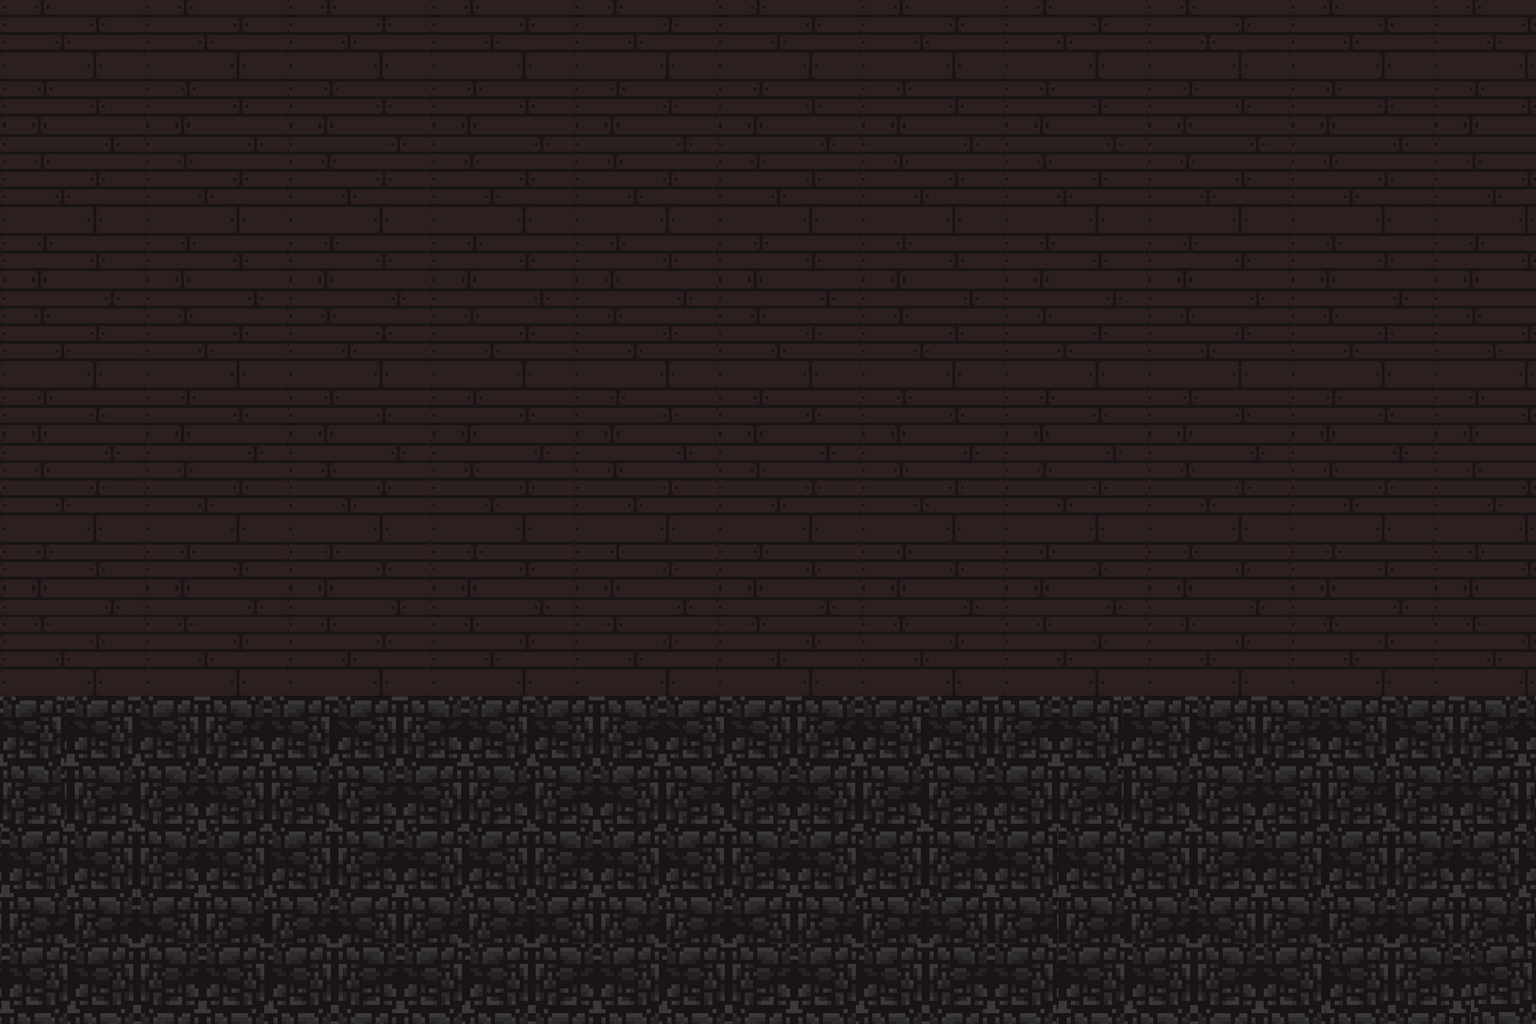
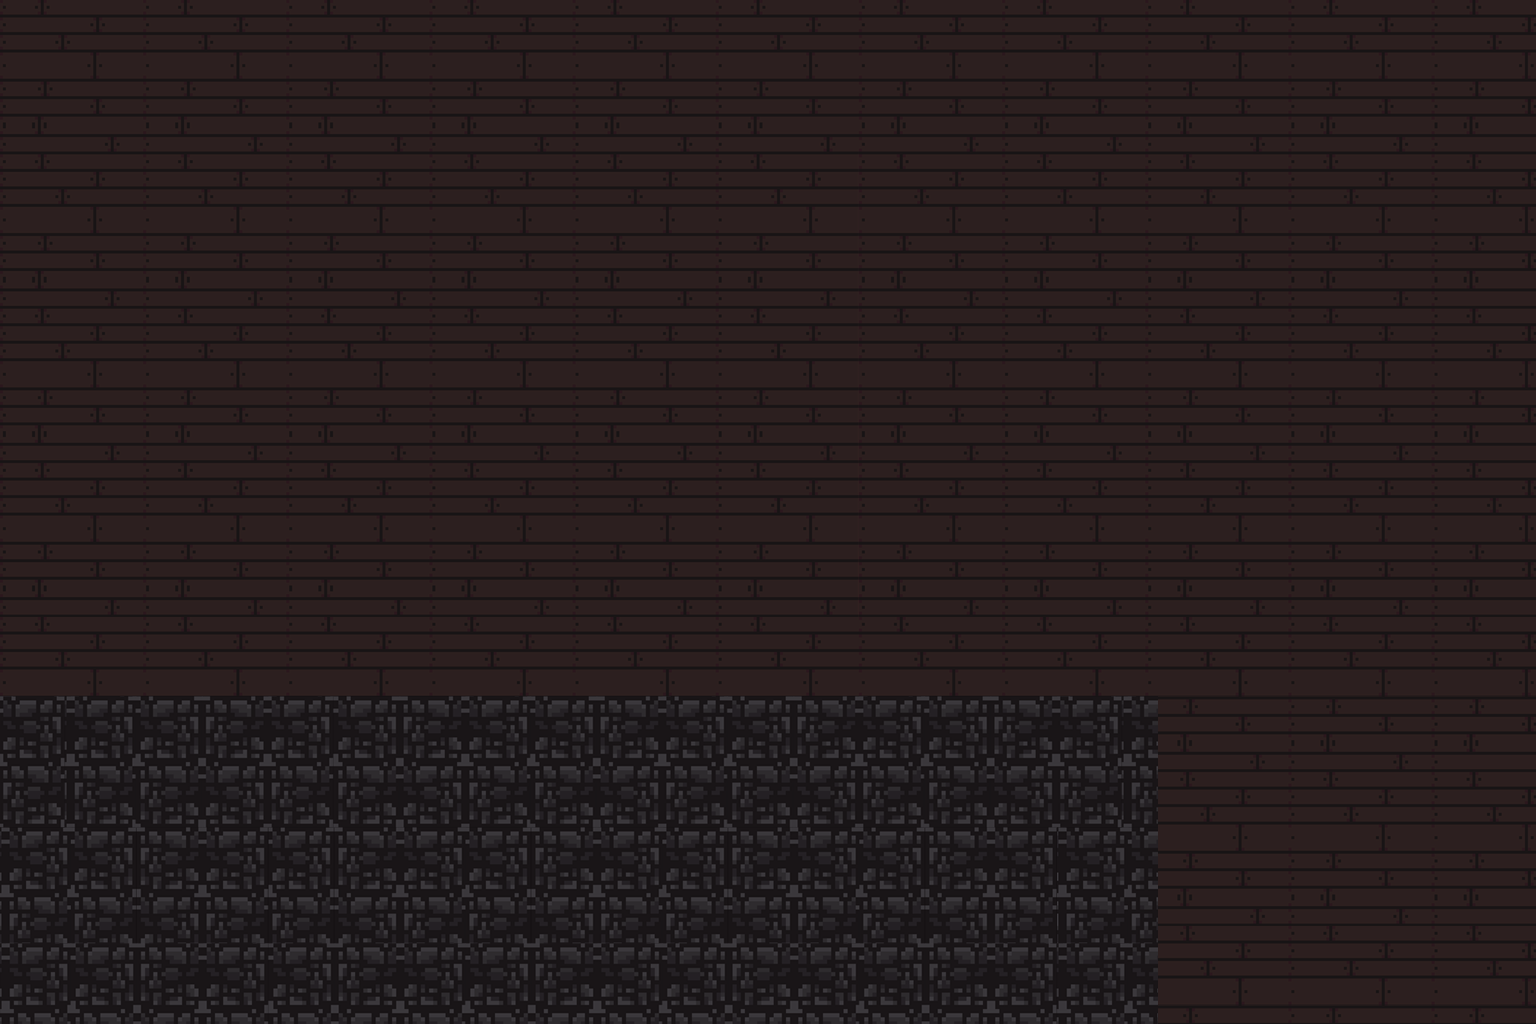
Reestruturação da Segunda Fase

diff --git a/src/gameWorld.py b/src/gameWorld.py
@@ -49,28 +49,28 @@ class GameWorld:
         self.map = [
             "0000000000000000000000000000000000000000",
             "0d7777777777777777777c000d777777777777c0",
-            "05...................40005...........B40",
-            "05....@..$..#........67778......-...w.40",
+            "05...................40005............40",
+            "05....@..$..#........67778......-...wp40",
             "05...........................X.....^..40",
             "05...............HI...................40",
             "05..B............FG......~.j.....¨s...40",
-            "05...............DE........B.´K.|.....40",
+            "05...............DE........p.´K.|.....40",
             "0b222223.......12222222222222222222222a0",
-            "0d777778.......6777cd77777777777777777c0",
-            "05.................68.................40",
-            "05............................V.......40",
-            "05..%.................................40",
+            "0d777778.......6777777777777c00000000000",
+            "05..........................40d77777c000",
+            "05....................V.....4d8.....67c0",
+            "05..%.......................68........40",
             "05!...................................40",
             "05....................................40",
-            "0b222223........12222223....12223.....40",
-            "0P777778........67777778....67778....BR0",
-            "0S...z.........................z......R0",
-            "0S.................................:..R0",
-            "0S...........................s...&....R0",
-            "0Sx.........*).............y*/.B.;....R0",
-            "0NU.....*.( TQU...)w*....)*TU)&.).)&.*R0",
-            "00NQQQQQQQQQM0SLLLTQULLLTQQ00QQQQQQQQQM0",
-            "00000000000000NQQQM0NQQQM000000000000000",
+            "0b222223........1222222223..12222223..40",
+            "0P777778........6777777778..670d7778..40",
+            "0S...z..................z....pR5......40",
+            "0S.........................:..R5w....p40",
+            "0S...................w...&....R5p..:..40",
+            "0Sx.........*).....y*/...;....R5/.s...40",
+            "0NU.....*.( TQU...*TU)&p).)&.*R5..p...40",
+            "00NQQQQQQQQQM0SLLLTMNQQQQQQQQQMb223...40",
+            "00000000000000NQQQM000000000000000b222a0",
         ]
 
         self.background = self._load_background()
@@ -655,6 +655,8 @@ class GameWorld:
 
                 "h": self.get_sprite(self.tileset, 23, 40, 16), # tile_WOODS_STAIRS_AJUST-1
                 "i": self.get_sprite(self.tileset, 23, 41, 16), # tile_WOODS_STAIRS_AJUST-2
+
+                "p": self.get_sprite(self.tileset, 28, 2, 16), # tile_BOX-1
 
                 "T": self.get_sprite(self.tileset, 16, 3, 16), # tile_STONE_TOP_LEFT
                 "Q": self.get_sprite(self.tileset, 17, 3, 16), # tile_STONE_TOP_CENTER
